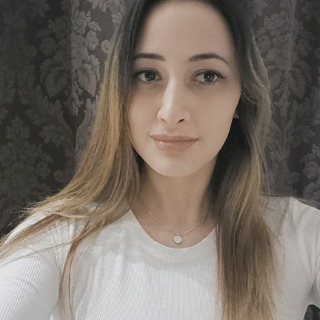
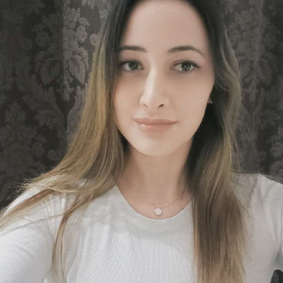
updated styling of about me section and replaced profile image

diff --git a/assets/css/style.css b/assets/css/style.css
@@ -140,12 +140,22 @@ button {
 
 .about-section {
     display: flex;
-    align-items: center;
     margin: 4rem;
 }
 
 .about-section>* {
-    flex: 1 1;
+    flex: 1;
+}
+
+.about-img {
+    display: flex;
+    align-items: flex-start;
+}
+
+.about-img img {
+    max-height: 100%;
+    object-fit: cover;
+    border-radius: 5%;
 }
 
 .about-title {
@@ -154,7 +164,9 @@ button {
 
 .about-details {
     margin: 0 4rem 4rem 4rem;
-    padding: 0 4rem 4rem 4rem;  
+    padding: 0 4rem 4rem 4rem;
+    font-size: 15px;
+    text-align: justify;
 }
 
 
